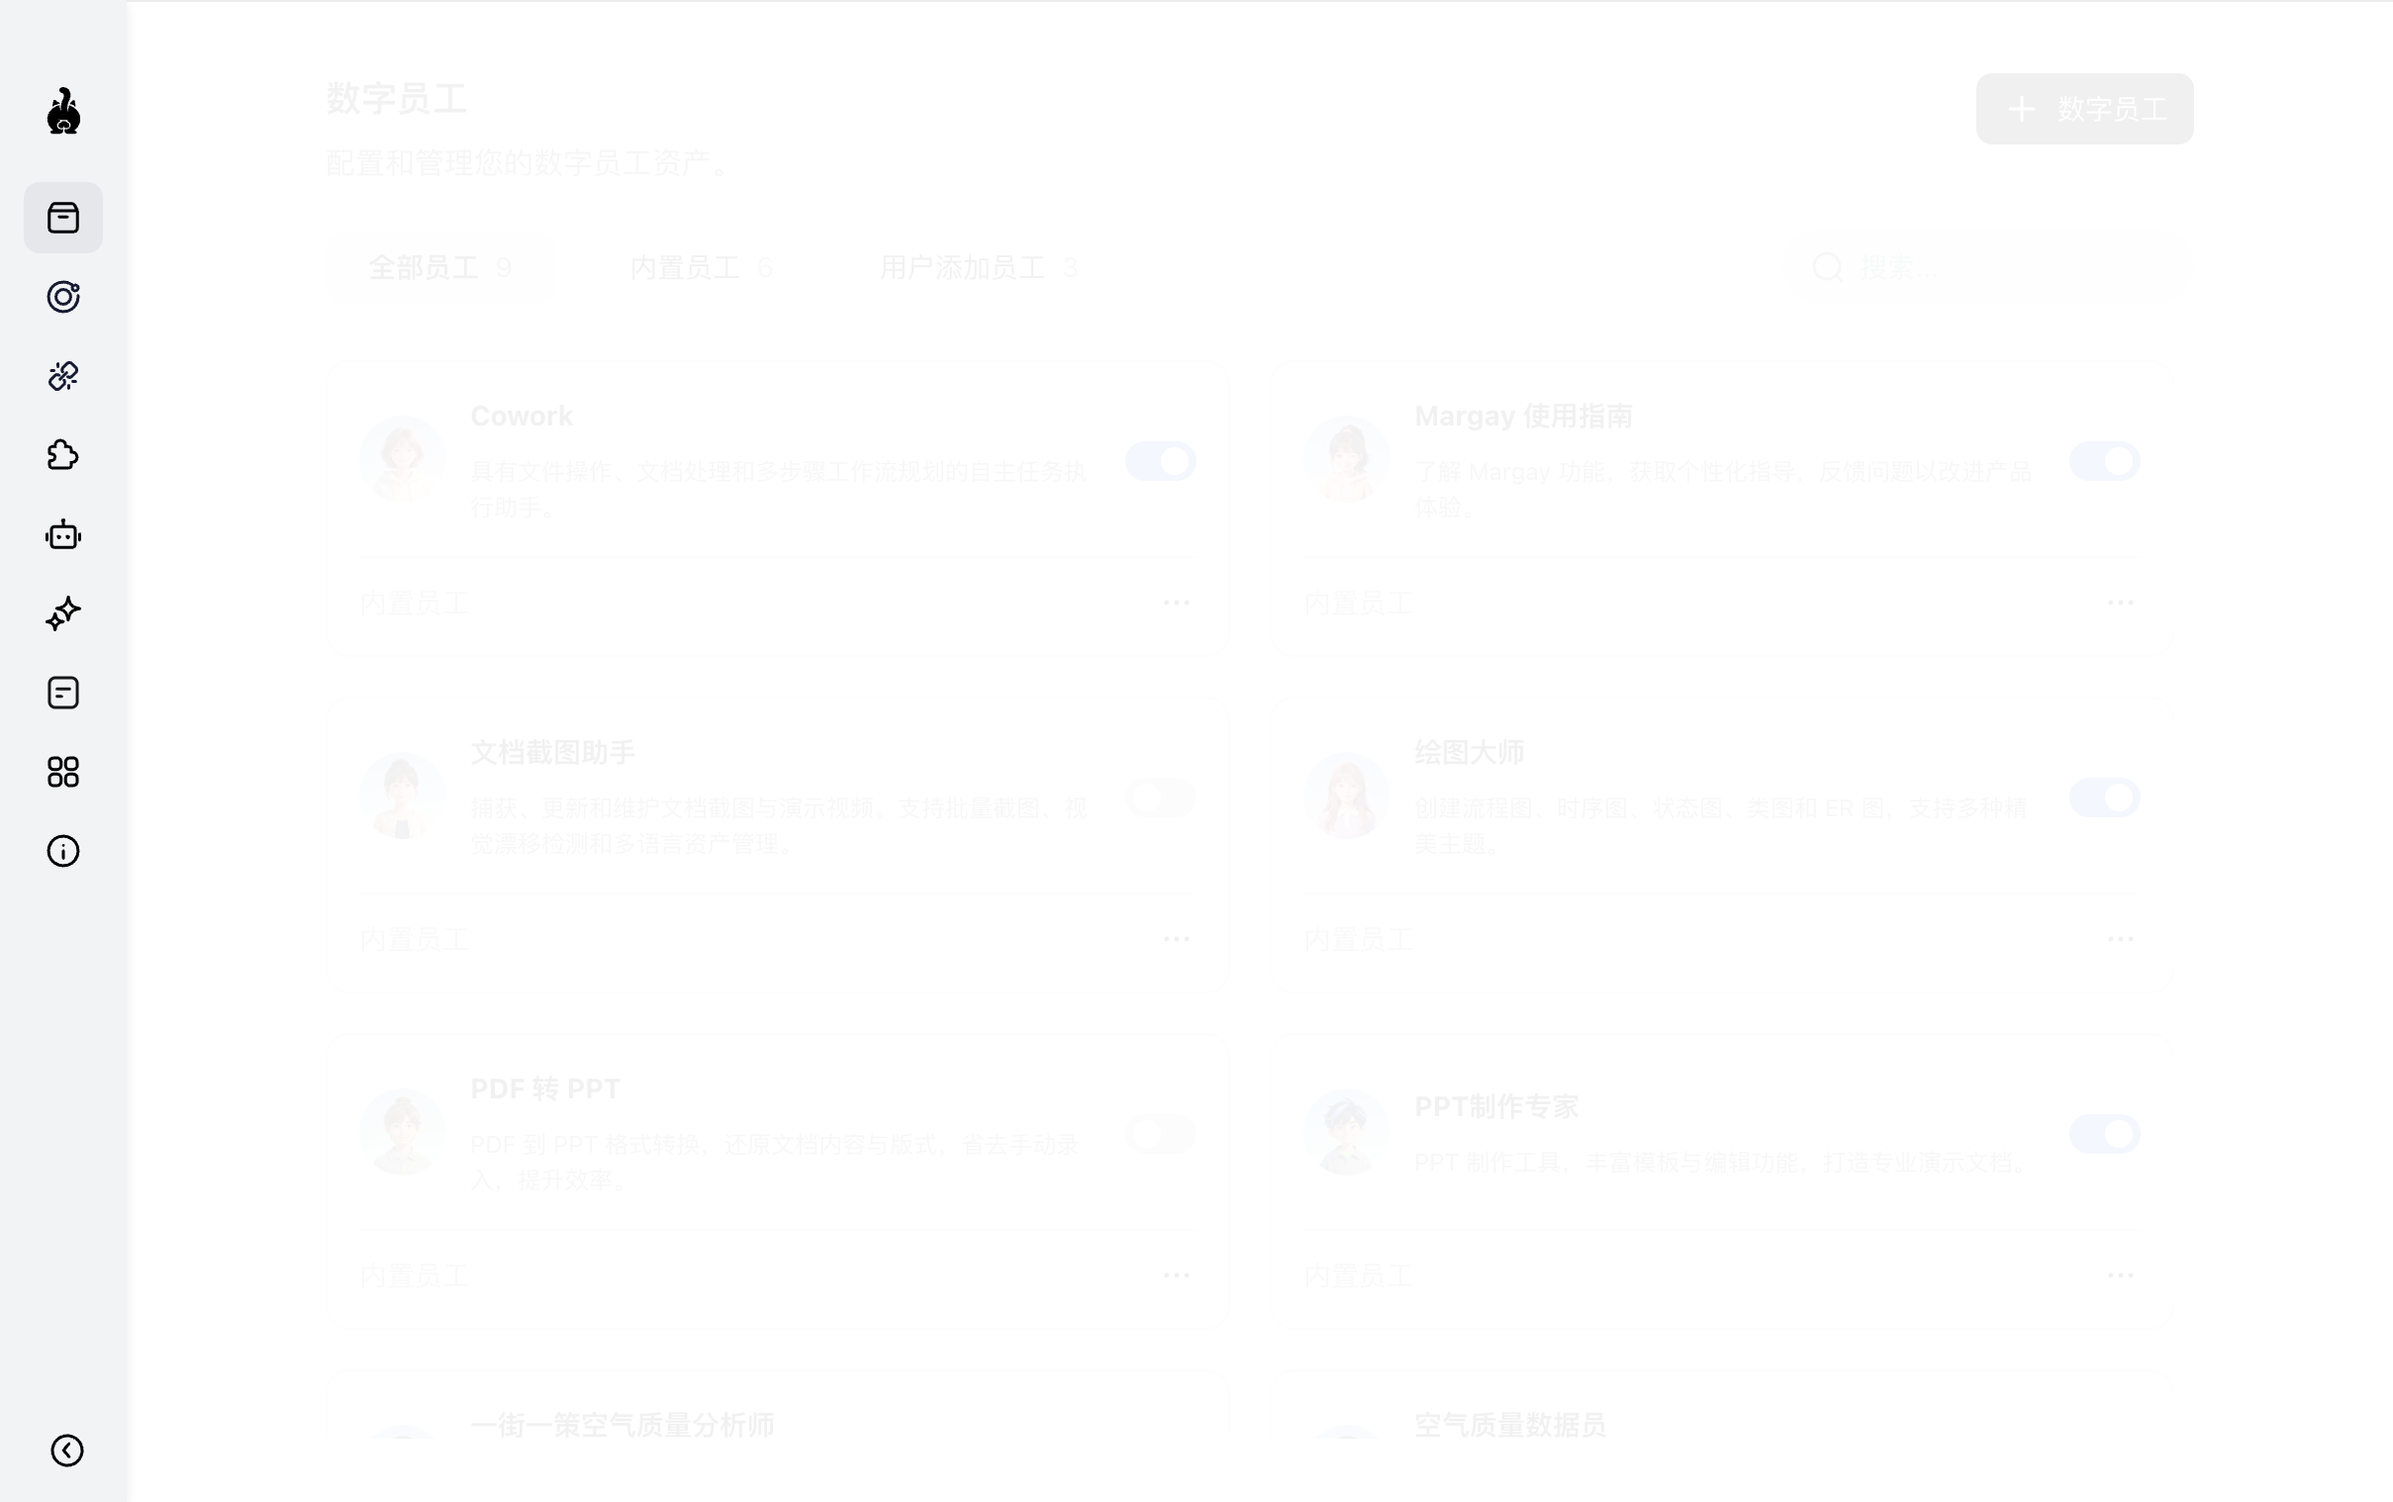
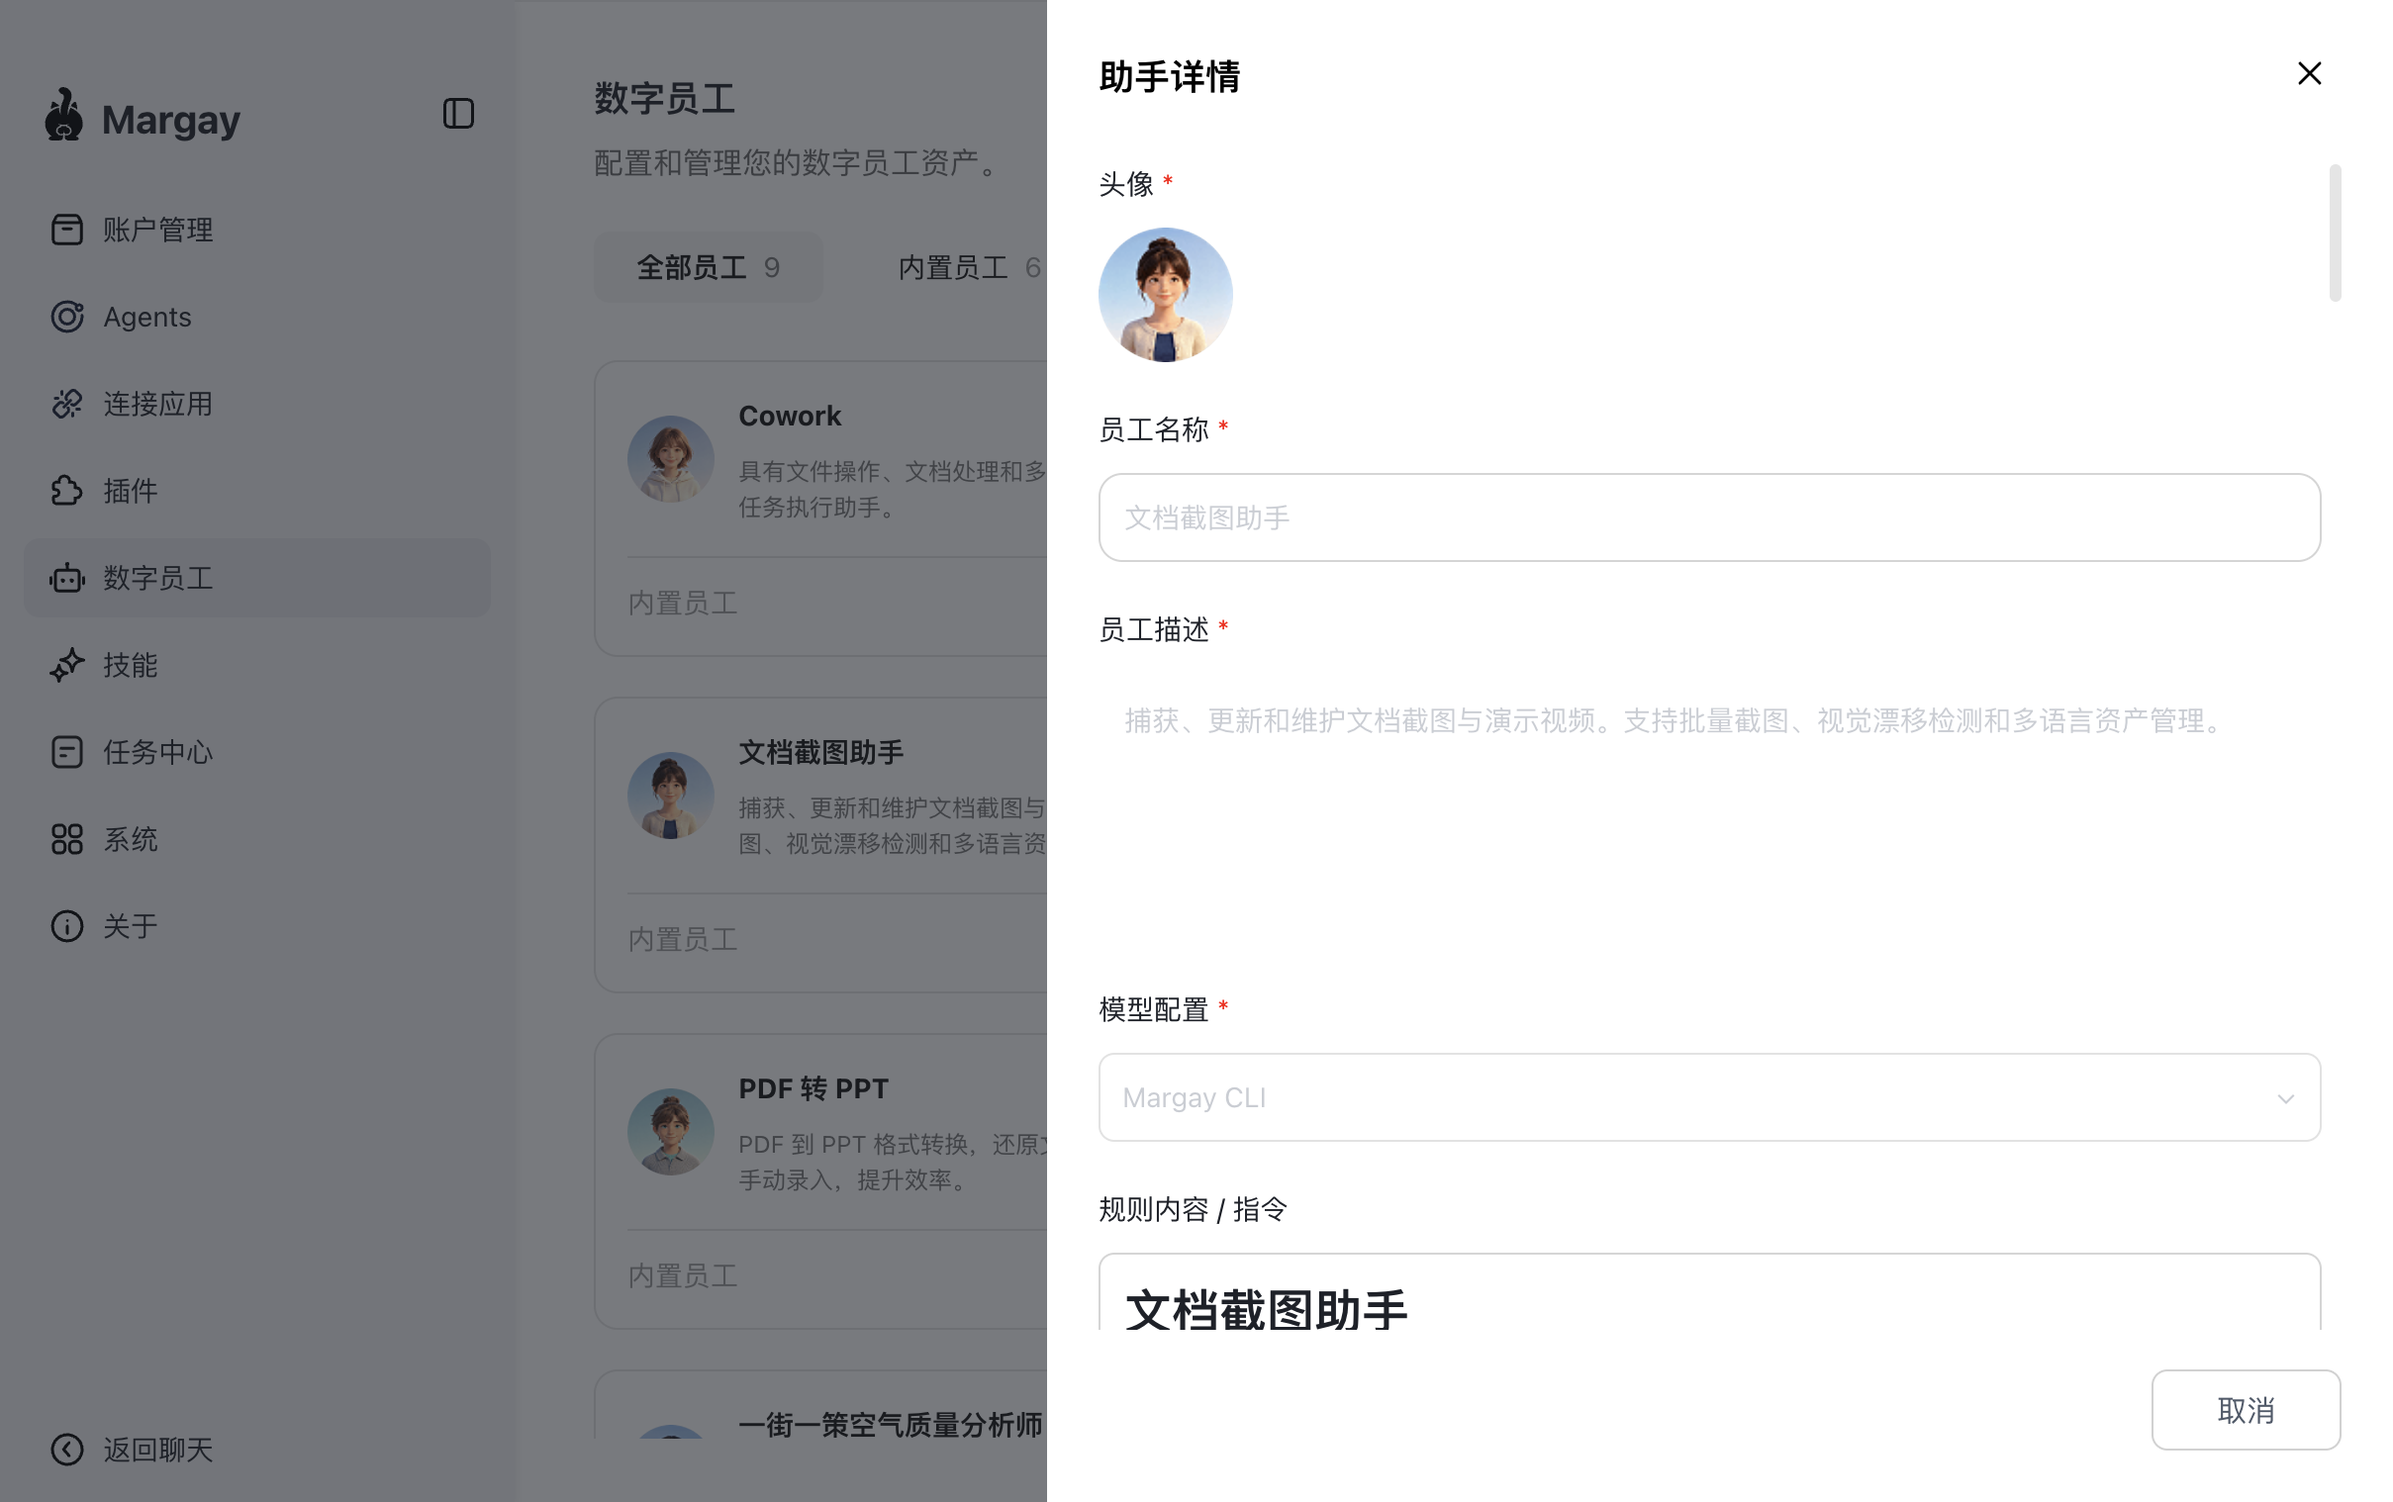
R96v2: ZH/JA add interface translations

diff --git a/ja/skills.md b/ja/skills.md
@@ -4,8 +4,13 @@ Margayの機能を拡張する事前構築ツールです。
 
 ## スキルを閲覧
 
-1. サイドバー下部の設定ギアをクリック
-2. 設定メニューから **Skills** を選択
-3. 利用可能なスキルカタログを閲覧
+1. 設定ギアをクリックし、**Skills** を選択
+2. 利用可能なスキルカタログを閲覧
 
 ![スキルカタログ](/screenshots/skills-panel.png)
+
+## 新しいスキルを追加
+
+**追加** ボタンをクリックしてカタログから新しいスキルを追加するか、インポートします。
+
+![スキルを追加](/screenshots/skills-add.png)

diff --git a/ja/assistants.md b/ja/assistants.md
@@ -4,8 +4,13 @@
 
 ## 従業員を表示
 
-1. サイドバー下部の設定ギアをクリック
-2. 設定メニューから **Employee** を選択
-3. 利用可能なデジタル従業員の一覧を表示
+1. 設定ギアをクリックし、**Employee** を選択
+2. 利用可能なデジタル従業員の一覧を表示
 
 ![デジタル従業員](/screenshots/assistants-list.png)
+
+## 新しい従業員を追加
+
+**+** ボタンをクリックして新しいデジタル従業員を追加します。動作、権限、スキルを設定できます。
+
+![従業員を追加](/screenshots/assistants-add.png)

diff --git a/zh-CN/assistants.md b/zh-CN/assistants.md
@@ -4,8 +4,13 @@
 
 ## 查看员工
 
-1. 点击侧边栏底部的设置齿轮
-2. 从设置菜单中选择 **Employee**
-3. 查看可用的数字员工列表
+1. 点击设置齿轮，选择 **Employee**
+2. 查看可用的数字员工列表
 
 ![数字员工](/screenshots/assistants-list.png)
+
+## 添加新员工
+
+点击 **+** 按钮添加新的数字员工。配置其行为、权限和技能。
+
+![添加员工](/screenshots/assistants-add.png)

diff --git a/zh-CN/skills.md b/zh-CN/skills.md
@@ -4,8 +4,13 @@
 
 ## 浏览技能
 
-1. 点击侧边栏底部的设置齿轮
-2. 从设置菜单中选择 **Skills**
-3. 浏览可用的技能目录
+1. 点击设置齿轮，选择 **Skills**
+2. 浏览可用的技能目录
 
 ![技能目录](/screenshots/skills-panel.png)
+
+## 添加新技能
+
+点击 **添加技能** 按钮从目录中添加或导入新技能。
+
+![添加技能](/screenshots/skills-add.png)
